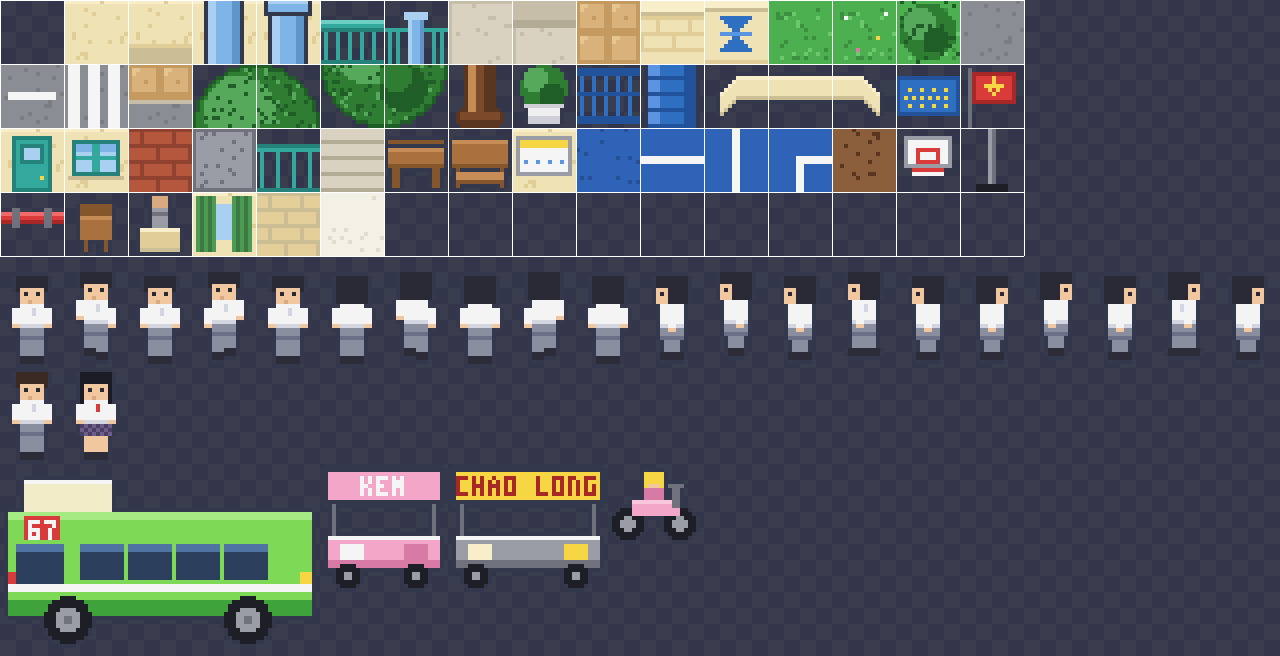
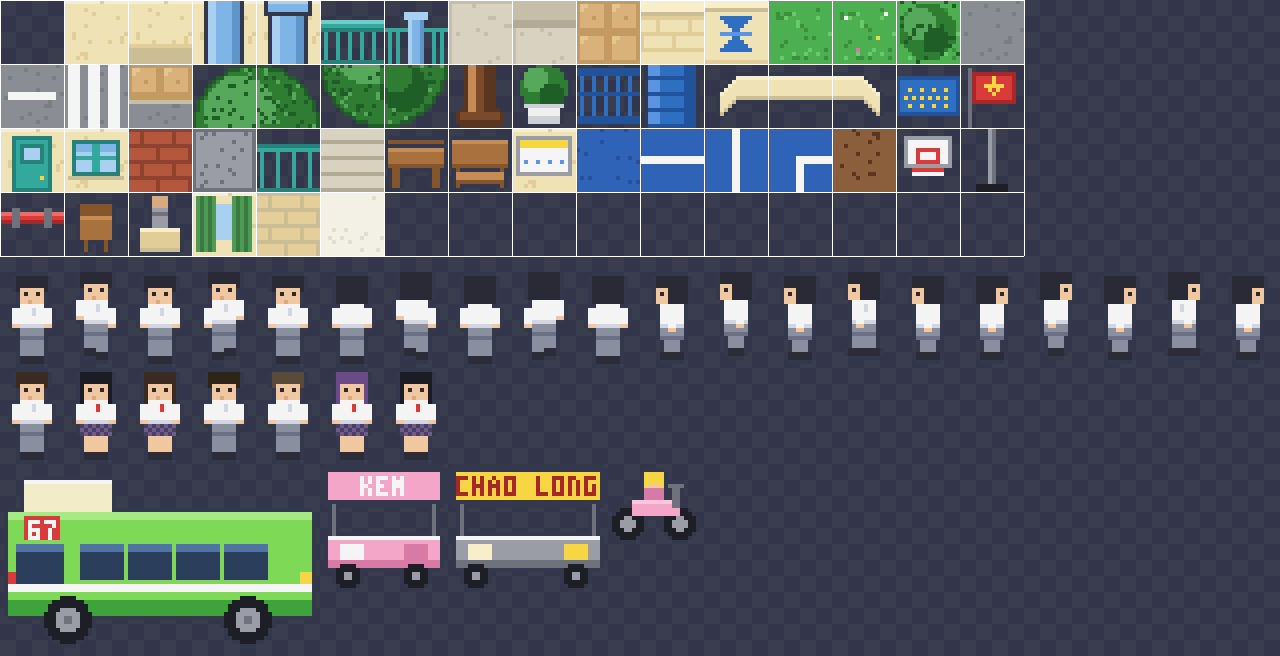
feat(npc T6): sprite 5 NPC chính (npc_thu/kiet/huy/ngan_trinh/nguyen)
Phân biệt bằng tóc/giới, đặt trên hàng trống của atlas; giữ tên khung ổn định để thay bản vẽ tay sau.

Changed region(s): [[0.0938, 0.5488, 0.3438, 0.7012]]

diff --git a/tools/gen-assets.ts b/tools/gen-assets.ts
@@ -764,6 +764,13 @@ const PLAYER: Look = { hair: C.hair, girl: false };
 });
 put("student_boy", person("down", 0, { hair: "#3a2a22", girl: false }), 0, 24);
 put("student_girl", person("down", 0, { hair: "#1c1c26", girl: true }), 16, 24);
+// NPC chính (feature he-thong-npc-va-lich): phân biệt bằng tóc/giới (placeholder tự tạo,
+// thay bản vẽ tay sau mà không đổi code miễn giữ tên khung).
+put("npc_thu", person("down", 0, { hair: "#3a2a22", girl: true }), 32, 24); // Trịnh Minh Thư (lớp trưởng)
+put("npc_kiet", person("down", 0, { hair: "#2f2418", girl: false }), 48, 24); // Nguyễn Trần Anh Kiệt (bạn thân)
+put("npc_huy", person("down", 0, { hair: "#5a4a3a", girl: false }), 64, 24); // Lê Hoàng Huy (cá biệt)
+put("npc_ngan_trinh", person("down", 0, { hair: "#6b4a8a", girl: true }), 80, 24); // Nguyễn Ngọc Ngân Trinh (văn nghệ)
+put("npc_nguyen", person("down", 0, { hair: "#1c1c26", girl: true }), 96, 24); // Hồ Thị Phương Nguyên (biến mất)
 put("bus_67", busSprite(), 0, 48);
 put("cart_kem", cartSprite(32, "kem", C.pink, C.pinkDark, C.pink, C.white, "KEM"), 80, 48);
 put("cart_chao_long", cartSprite(40, "chao", C.gray, C.grayDark, C.yellow, C.redDark, "CHAO LONG"), 112, 48);
